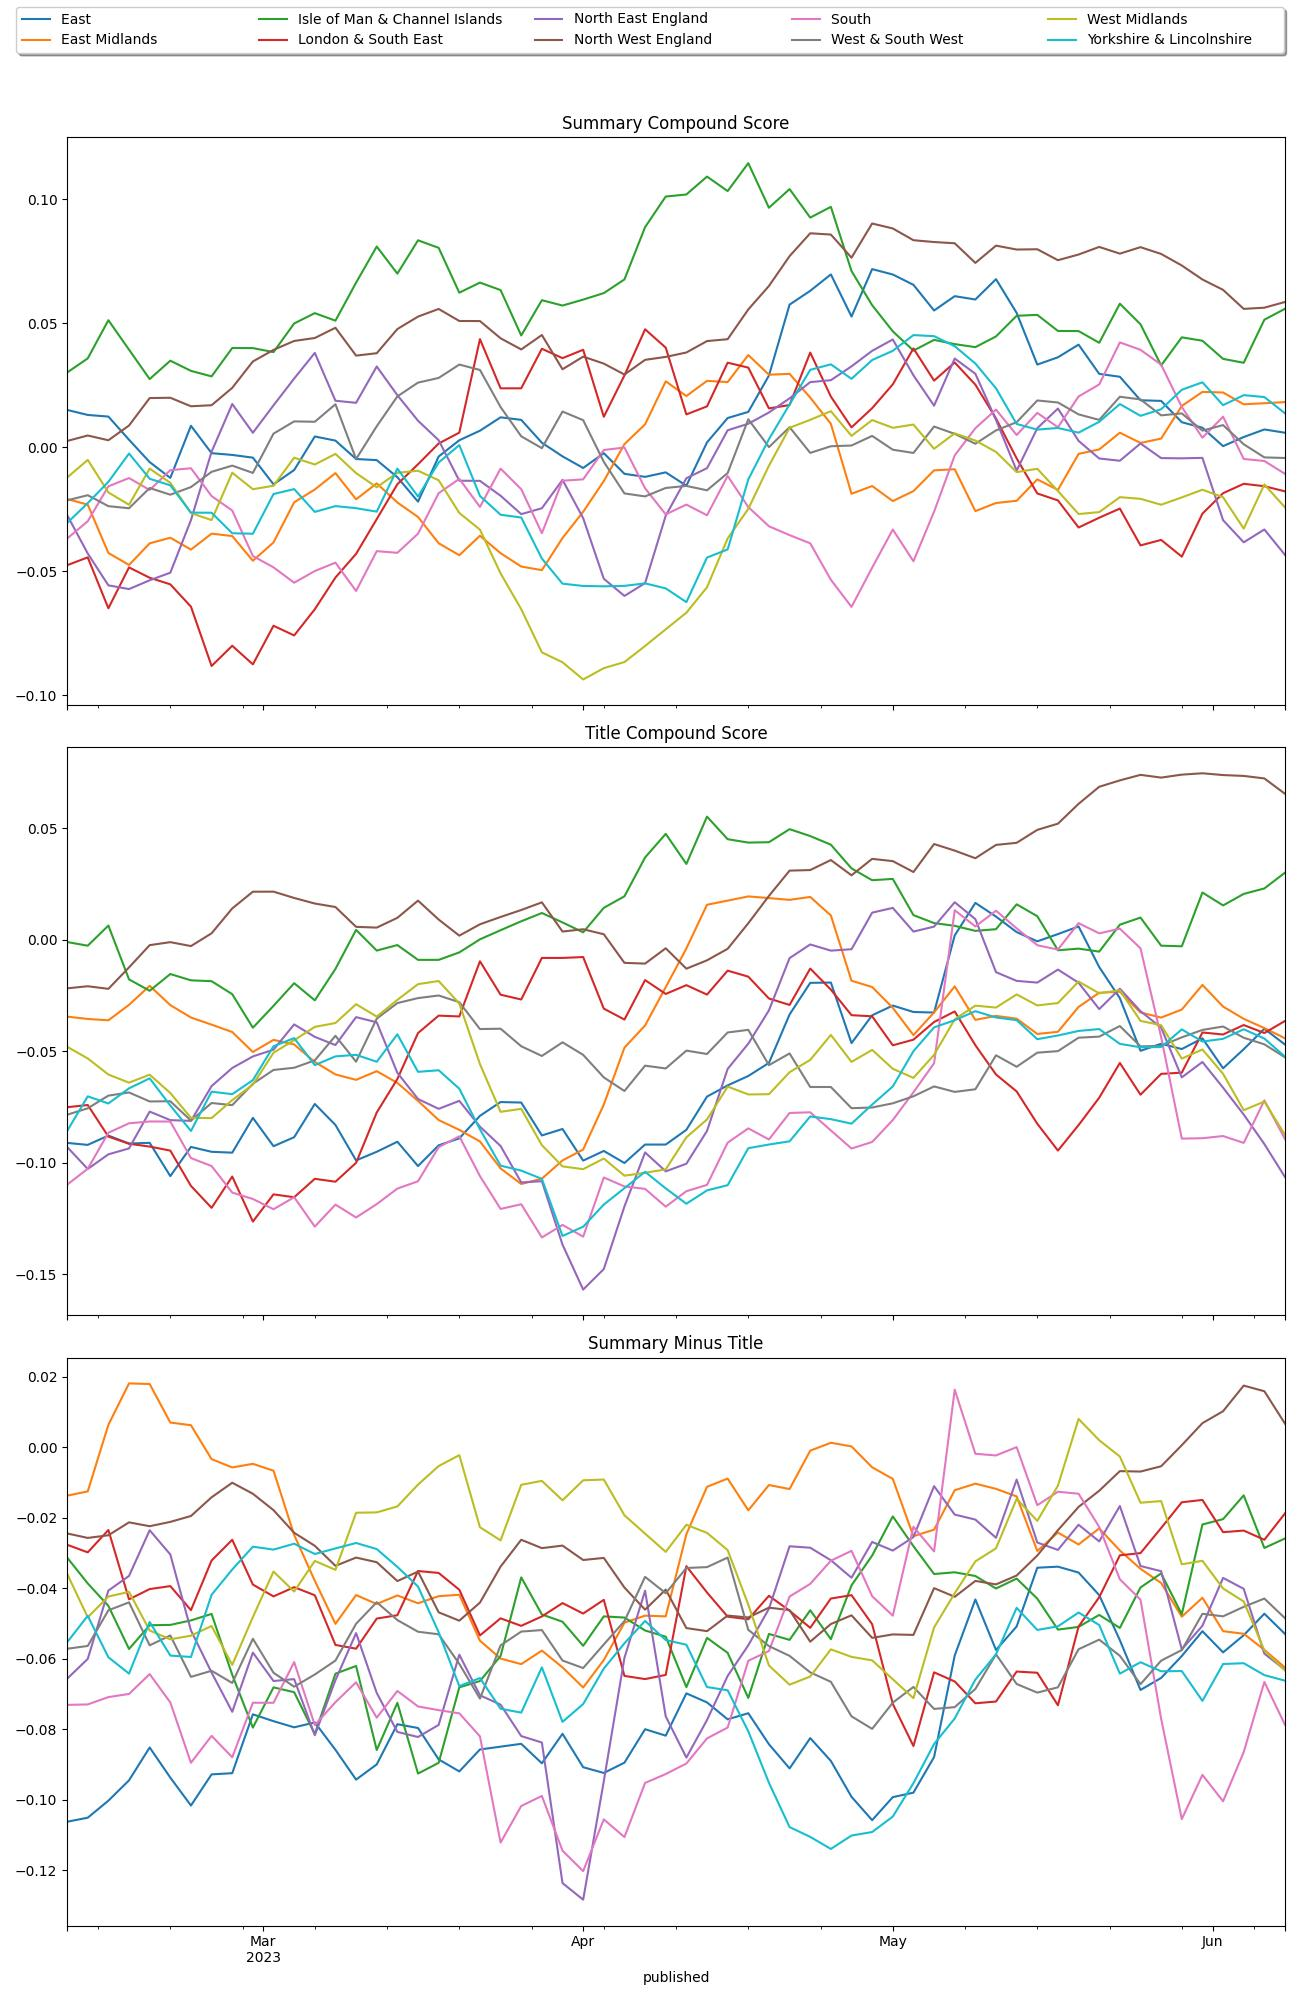
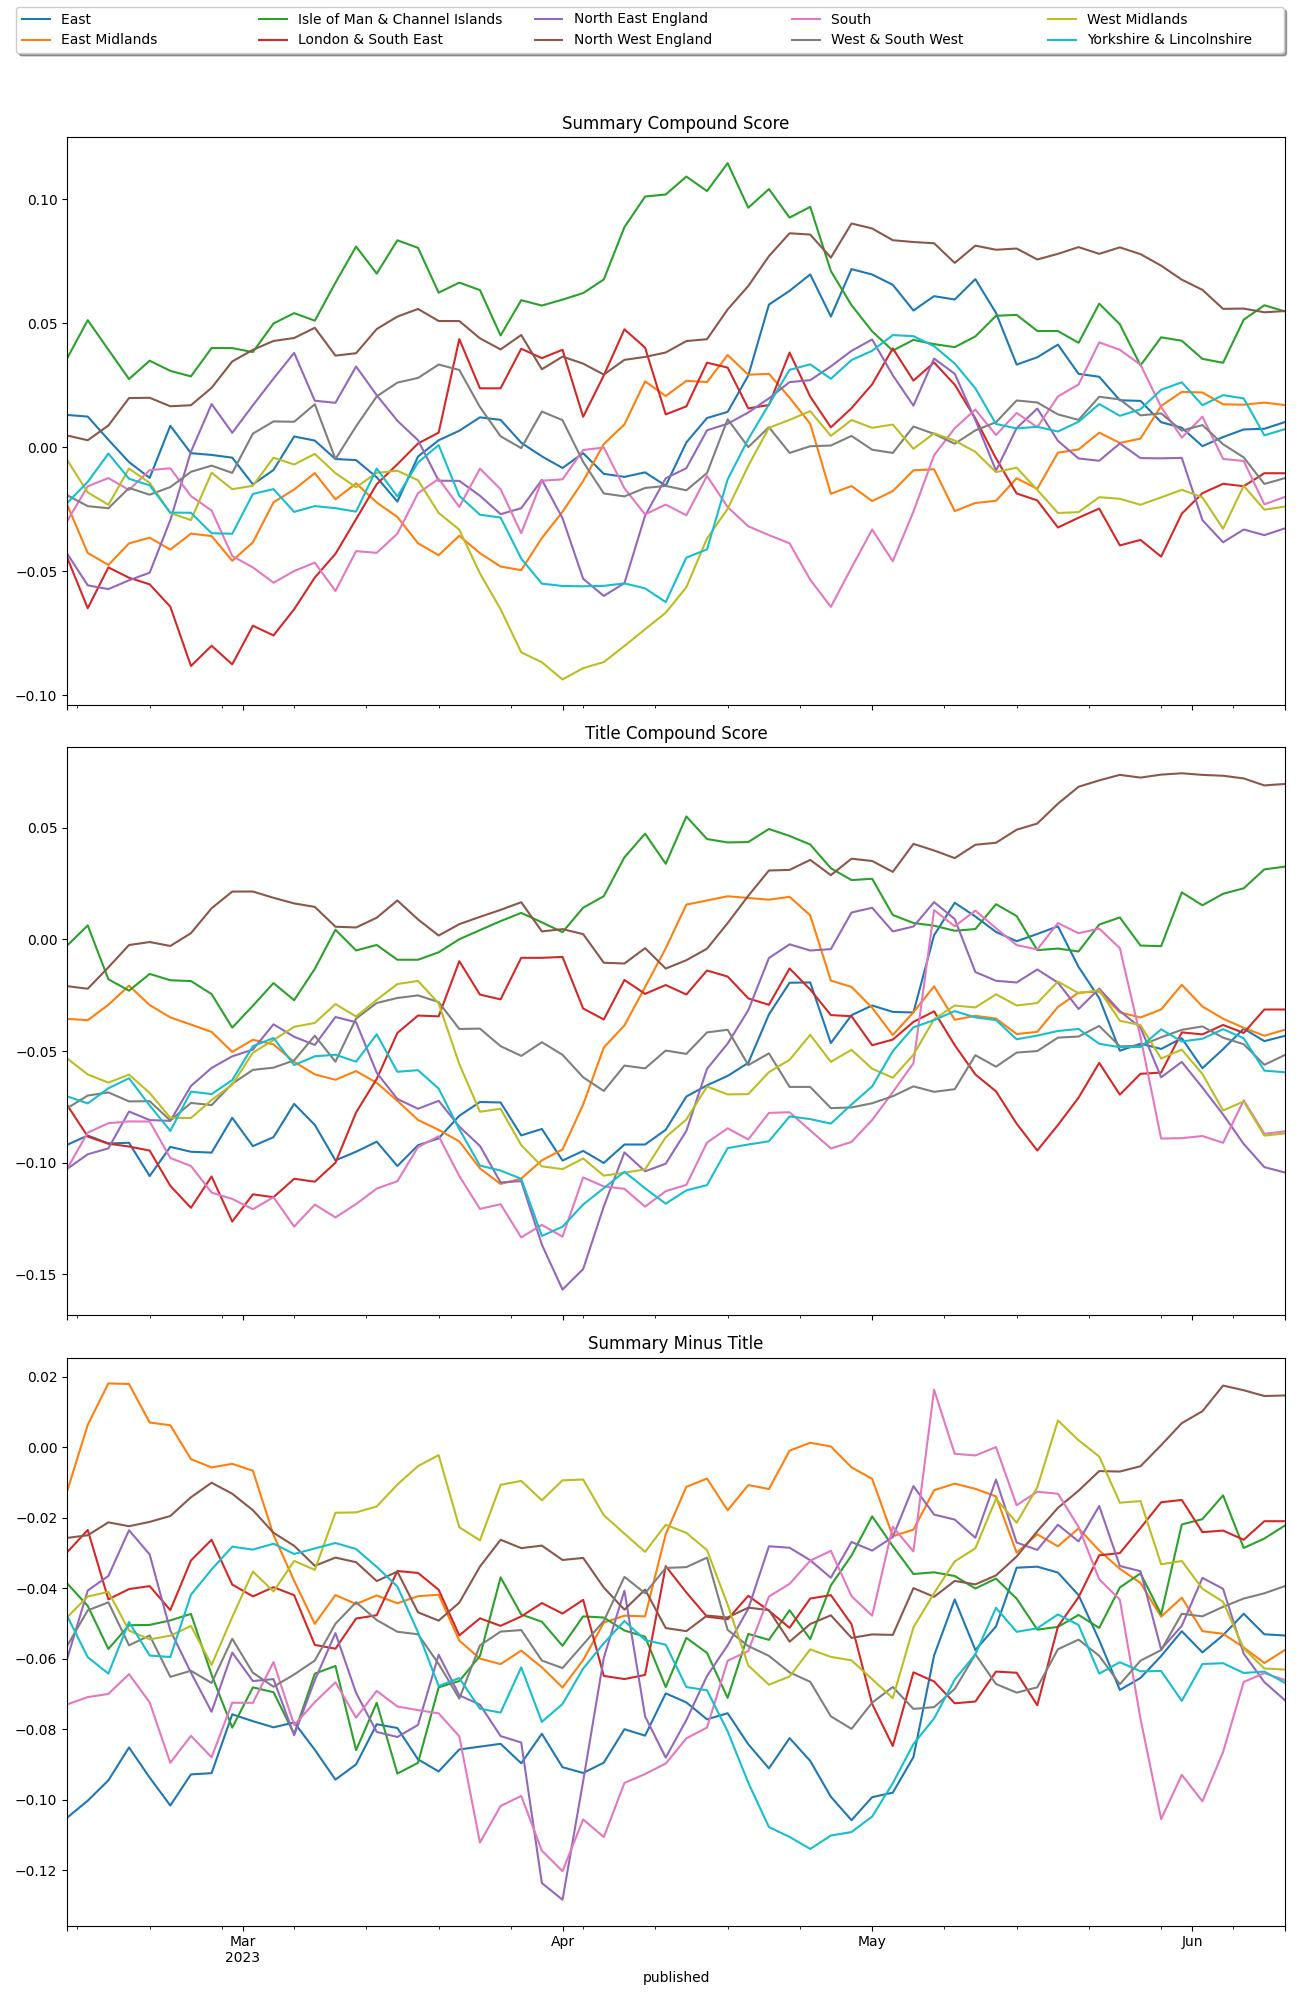
at 2023-06-10 10:43 ran: [Stage: 'complete-basic_report']

diff --git a/reports/complete/latest.md b/reports/complete/latest.md
@@ -1,12 +1,12 @@
-| region                        | published                  | summary                                                                                             | title                                               | url                                        |   summary_compound_score |   title_compound_score |   summary_minus_title |
-|:------------------------------|:---------------------------|:----------------------------------------------------------------------------------------------------|:----------------------------------------------------|:-------------------------------------------|-------------------------:|-----------------------:|----------------------:|
-| East                          | 2023-06-09 09:04:22.869000 | "We didn't pluck this out of the air" a councillor says about a city wide wheelie bin roll out.     | Wheelie bin roll out across city begins             | /news/articles/cqvqw27yynzo                |                   0      |                 0      |                0      |
-| East Midlands                 | 2023-06-09 07:43:35        | Warehouses are using robots alongside humans due to staff shortages in the distribution industry.   | Robots helping to overcome staffing shortage        | /news/uk-england-northamptonshire-65846611 |                  -0.1531 |                 0.0516 |                0.2047 |
-| Isle of Man & Channel Islands | 2023-06-09 08:37:35        | The majority of the vacancies are within Guernsey's secondary schools.                              | Education needs to recruit 28 more teachers         | /news/world-europe-guernsey-65845401       |                   0      |                 0      |                0      |
-| London & South East           | 2023-06-09 08:42:28        | Two lorries, 18 cars and outbuildings and workshops are damaged by a fire overnight.                | Buildings and vehicles alight in fire at farm       | /news/uk-england-surrey-65853048           |                  -0.6486 |                -0.34   |                0.3086 |
-| North East England            | 2023-06-09 07:47:24        | Police say they have arrested a 33-year-old man after the attack in Darlington.                     | Attempted murder arrest as woman seriously injured  | /news/uk-england-tees-65853006             |                  -0.7351 |                -0.8885 |               -0.1534 |
-| North West England            | 2023-06-09 09:21:40        | Competitive runner and an experienced cyclist Wendy Wilson, 70, died in the crash last month.       | Cyclist killed in crash was wonderful, husband says | /news/uk-england-cumbria-65853005          |                  -0.6808 |                -0.5423 |                0.1385 |
-| South                         | 2023-06-09 08:13:29        | Trains between Didcot and Oxford resume earlier than expected after repairs to the Nuneham Viaduct. | Trains back on track after viaduct closure          | /news/uk-england-oxfordshire-65853498      |                   0      |                 0      |                0      |
-| West & South West             | 2023-06-09 09:10:27        | A 17-year-old boy has been taken to hospital by air ambulance after being stabbed in Swindon.       | Teen suffers life-threatening injuries in stabbing  | /news/uk-england-wiltshire-65851575        |                  -0.4404 |                -0.4767 |               -0.0363 |
-| West Midlands                 | 2023-06-09 09:00:53        | The death is the third involving a cyclist in Birmingham in as many weeks.                          | Boy dies after bicycle hit by car                   | /news/uk-england-birmingham-65854575       |                  -0.5994 |                 0      |                0.5994 |
-| Yorkshire & Lincolnshire      | 2023-06-09 09:10:50        | Akwia Bryant is jailed after repeatedly stabbing a man in the street in Leeds.                      | Jailed knifeman's victim lucky to survive - police  | /news/uk-england-leeds-65853696            |                  -0.4939 |                -0.3612 |                0.1327 |
+| region                        | published           | summary                                                                                                                                             | title                                                    | url                                        |   summary_compound_score |   title_compound_score |   summary_minus_title |
+|:------------------------------|:--------------------|:----------------------------------------------------------------------------------------------------------------------------------------------------|:---------------------------------------------------------|:-------------------------------------------|-------------------------:|-----------------------:|----------------------:|
+| East                          | 2023-06-10 08:41:20 | UK Power Network had to enter the properties before police to ensure they were safe.                                                                | Police seize cannabis plants worth £450k                 | /news/uk-england-beds-bucks-herts-65863493 |                   0.6705 |                 0.2263 |               -0.4442 |
+| East Midlands                 | 2023-06-10 08:53:57 | The passengers narrowly escaped with their lives when the Carlton Queen capsized.                                                                   | Passengers plan to sue owners of capsized boat           | /news/uk-england-nottinghamshire-65832699  |                   0      |                 0      |                0      |
+| Isle of Man & Channel Islands | 2023-06-10 09:03:29 | Guernsey and Jersey sign a memorandum of understanding with Brittany for the first time.                                                            | Channel Islands build partnerships with France           | /news/world-europe-guernsey-65856292       |                   0      |                 0      |                0      |
+| London & South East           | 2023-06-09 22:31:03 | Moeen Ali shines for Birmingham, while a thrilling night of T20 Blast action sees wins for Notts and Somerset, and Surrey hit record-breaking form. | Moeen shines while Surrey smash club record in T20 Blast | /sport/cricket/65862744                    |                   0.7783 |                 0      |               -0.7783 |
+| North East England            | 2023-06-10 08:23:52 | Gateshead Council removes late return fees as it fears they could put people off loaning books.                                                     | Library fines scrapped amid cost of living woes          | /news/uk-england-tyne-65857246             |                  -0.4215 |                -0.4404 |               -0.0189 |
+| North West England            | 2023-06-10 08:25:09 | Appleby Horse Fair is one of the largest gatherings of the Gypsy and travelling community in Europe.                                                | Thousands enjoy horse fair amid high temperatures        | /news/uk-england-cumbria-65859452          |                   0.3182 |                 0.6705 |                0.3523 |
+| South                         | 2023-06-10 09:15:04 | The Isle of Wight Council had dropped proposals to close four primary schools following concerns.                                                   | Island school faces closure after council U-turn         | /news/uk-england-hampshire-65860391        |                   0      |                 0      |                0      |
+| West & South West             | 2023-06-10 09:01:19 | Fossils from Devon indicate reptile's diet may have taken a toll on its teeth, researchers say.                                                     | Dinosaur with no teeth may have starved to death         | /news/uk-england-devon-65857821            |                   0      |                -0.8658 |               -0.8658 |
+| West Midlands                 | 2023-06-10 08:27:28 | The roof was collapsing and the church lacked water or heat when restoration work began in 2014.                                                    | Grade II listed church restored after closure fear       | /news/uk-england-shropshire-65858322       |                  -0.296  |                -0.2023 |                0.0937 |
+| Yorkshire & Lincolnshire      | 2023-06-10 08:25:38 | Alex Szabo-Haslam was commissioned to produce two designs based on songs from album The Car.                                                        | Sheffield artist designs Arctic Monkeys gig poster       | /news/uk-england-south-yorkshire-65859229  |                   0      |                 0      |                0      |
